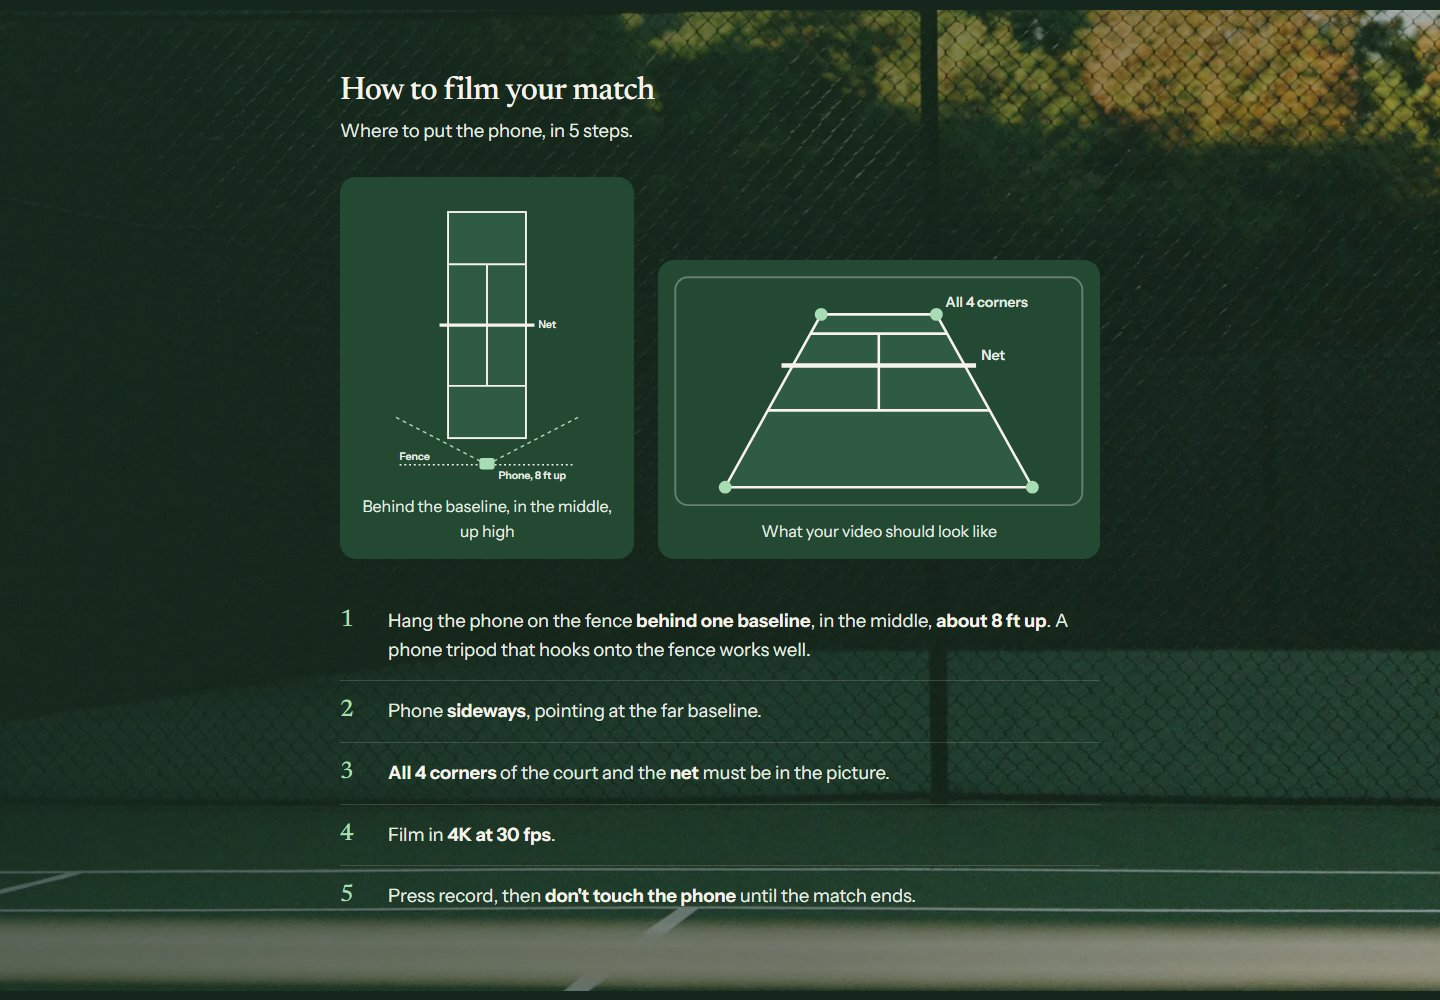
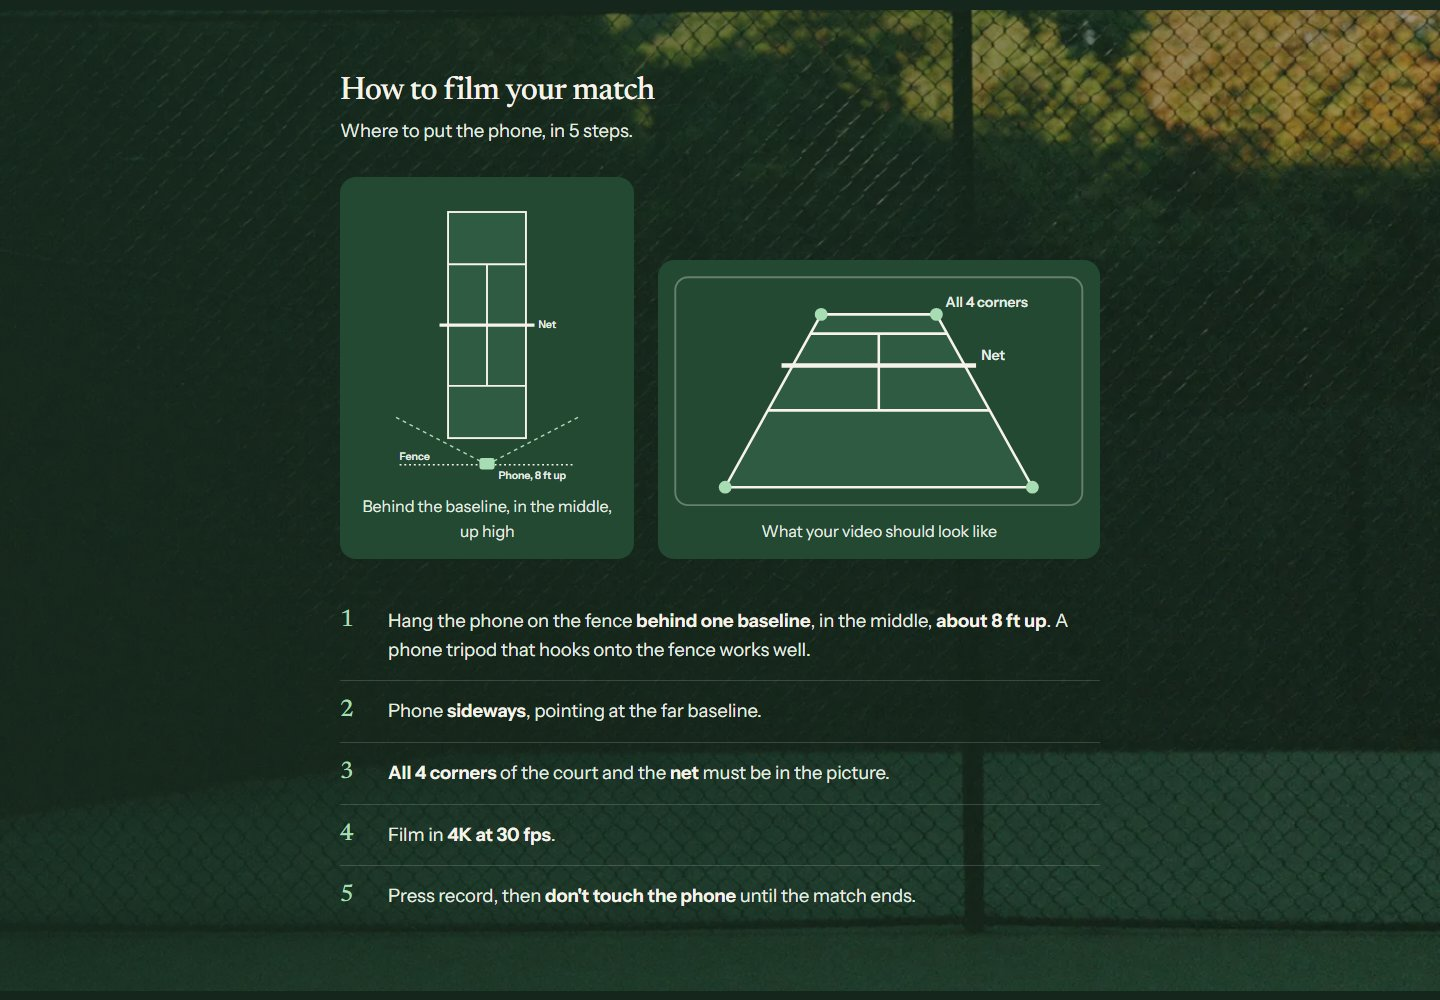
how to film: trim the bright court lines off the bottom of the fence photo

diff --git a/calibration_demo.html b/calibration_demo.html
@@ -583,7 +583,7 @@ body.photo-hero .topbar { margin-bottom: -64px; }
   </section>
 
   <section class="block band band-green" id="filmGuide" aria-labelledby="filmH">
-    <div class="band-photo" aria-hidden="true"><img src="band-phone-800.webp" srcset="band-phone-800.webp 800w, band-phone-1600.webp 1600w" sizes="100vw" width="1600" height="1067" loading="lazy" alt=""></div>
+    <div class="band-photo" aria-hidden="true"><img src="band-phone-800.webp" srcset="band-phone-800.webp 800w, band-phone-1600.webp 1600w" sizes="100vw" width="1600" height="921" loading="lazy" alt=""></div>
     <h2 id="filmH">How to film your match</h2>
     <p class="lede">Where to put the phone, in 5 steps.</p>
     <div class="figs">
